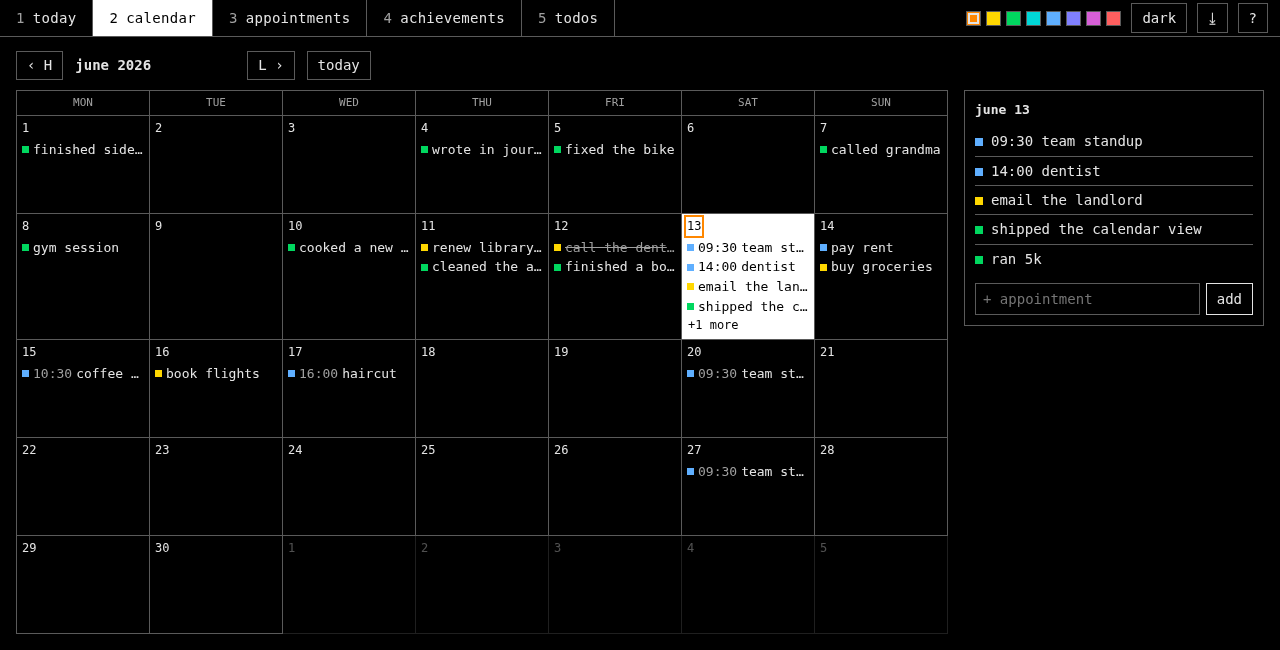
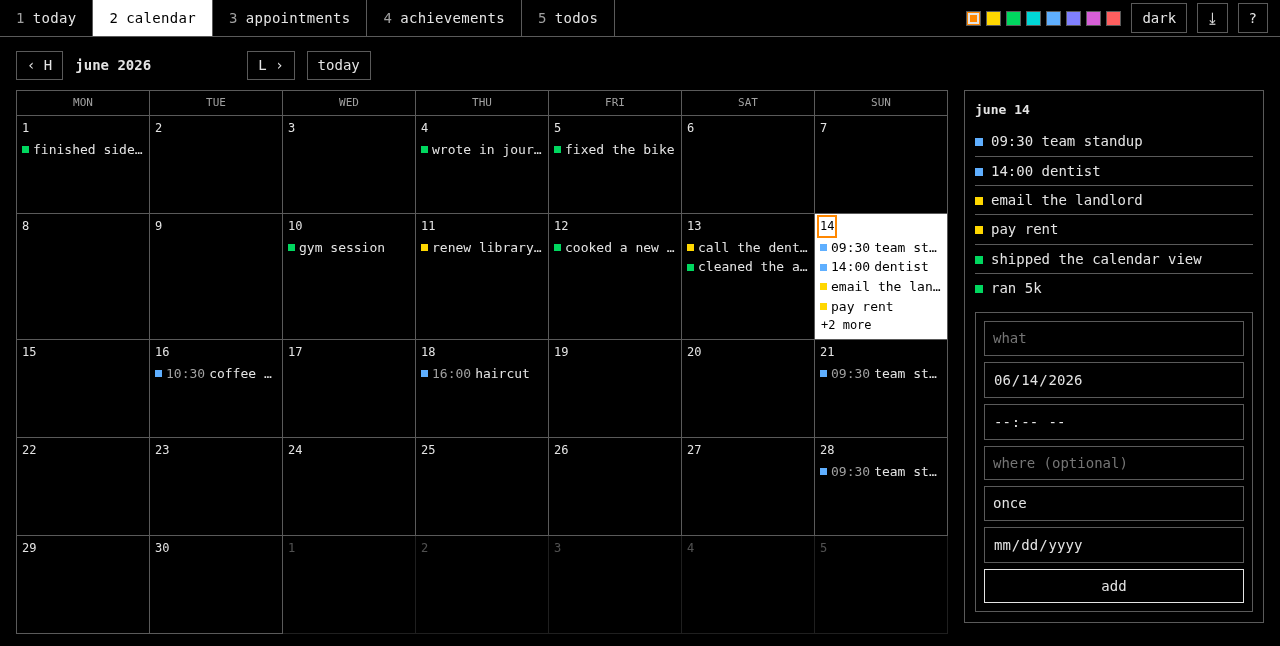
feat: full add-form in calendar day panel + upcoming/past appointments + hash routing
calendar day panel now offers the same full appointment form (time/place/repeat/
end-date) as the appointments page, pre-filled to the clicked day — shared via
appointmentAddForm(), no drift. appointments list groups upcoming (soonest first,
recurring resolved to next occurrence) and past (most recent first), ordering shared
with keyboard nav. views are now hash-routed (#calendar) — deep-linkable, pwa reopens
where you left off. docs: refreshed calendar screenshot, reframed phone-sync as
optional native-calendar interop (the pwa + nudges are the primary phone path).

diff --git a/web/app.js b/web/app.js
@@ -276,13 +276,17 @@ function setView(v) {
   closeSearch(false);
   document.querySelectorAll(".tab").forEach(t => t.classList.toggle("active", t.dataset.view === v));
   document.querySelectorAll(".view").forEach(s => s.classList.toggle("active", s.id === v));
+  // reflect the view in the url so it's deep-linkable / bookmarkable and a
+  // refresh (or the installed pwa) reopens where you were. guarded: the hashchange
+  // listener no-ops when the hash already matches the current view.
+  if (location.hash.slice(1) !== v) location.hash = v;
   if (v === "today") { refreshPlannerData().then(render); } else { render(); }
 }
 
 function currentList() {
   if (view === "achievements") return applySearch(state.achievements);
   if (view === "todos") return applySearch(visibleTodos());
-  if (view === "appointments") return applySearch(state.appointments);
+  if (view === "appointments") { const o = orderedAppointments(applySearch(state.appointments)); return [...o.up, ...o.past]; }
   return [];
 }
 
@@ -816,32 +820,83 @@ function renderHeatmap() {
 
 // ---- appointments / achievements / todos -----------------------------------
 
+// the full appointment add form — identical controls everywhere it's offered
+// (the appointments page AND the calendar day panel), pre-filled to a day. one
+// definition so the calendar's add can never drift from the appointments page's.
+function appointmentAddForm(defaultWhen) {
+  return addRow([
+    { name: "title", ph: "what", cls: "title" },
+    { name: "when", type: "date", value: defaultWhen },
+    { name: "time", type: "time" },
+    { name: "location", ph: "where (optional)" },
+    { name: "repeat", type: "select", options: REPEAT_OPTIONS },
+    { name: "until", type: "date" },
+  ], d => add("appointments", {
+    title: d.title, when: d.time ? `${d.when} ${d.time}` : d.when,
+    location: d.location, recur: parseRepeat(d.repeat, d.until),
+  }));
+}
+
+// split appointments into upcoming (next occurrence today-or-later, soonest
+// first) and past (one-time, already gone, most recent first). recurring series
+// resolve to their next hit. ONE ordering, shared by the view + keyboard nav so
+// j/k always lands on the row you see.
+function orderedAppointments(list) {
+  const today = todayIso();
+  const keyOf = a => {
+    const rec = a.recur && a.recur.freq;
+    return (rec ? (nextOccurrence(a, today) || a.when) : a.when) || "";
+  };
+  const up = [], past = [];
+  list.forEach(a => (keyOf(a) >= today ? up : past).push(a));
+  up.sort((x, y) => keyOf(x) < keyOf(y) ? -1 : 1);
+  past.sort((x, y) => keyOf(x) > keyOf(y) ? -1 : 1);
+  return { up, past };
+}
+
+function apptRow(a) {
+  const rec = recurLabel(a.recur, (a.when || "").slice(0, 10));
+  const shown = rec ? (nextOccurrence(a, todayIso()) || a.when) : a.when;
+  const sub = [a.location, rec].filter(Boolean).join("  ·  ");
+  return listRow(a, "appointments", [
+    el("span", "when", fmtWhen(shown)),
+    buildBody(a.title, sub),
+  ]);
+}
+
 function renderAppointments() {
   const root = document.getElementById("appointments");
   clear(root);
   const h = el("h2", "section-h", "appointments");
   h.appendChild(el("span", "count", `${state.appointments.length}`));
   root.appendChild(h);
-  root.appendChild(addRow([
-    { name: "title", ph: "what", cls: "title" },
-    { name: "when", type: "date", value: selDay },
-    { name: "time", type: "time" },
-    { name: "location", ph: "where (optional)" },
-    { name: "repeat", type: "select", options: REPEAT_OPTIONS },
-    { name: "until", type: "date" },
-  ], d => add("appointments", { title: d.title, when: d.time ? `${d.when} ${d.time}` : d.when, location: d.location, recur: parseRepeat(d.repeat, d.until) })));
+  root.appendChild(appointmentAddForm(selDay));
+
+  const { up, past } = orderedAppointments(applySearch(state.appointments));
   const body = el("div");
-  // recurring series show their next occurrence in the when column; the label
-  // (e.g. "every other thu") makes the repetition explicit.
-  mountList(body, applySearch(state.appointments), (a) => {
-    const rec = recurLabel(a.recur, (a.when || "").slice(0, 10));
-    const shown = rec ? (nextOccurrence(a, todayIso()) || a.when) : a.when;
-    const sub = [a.location, rec].filter(Boolean).join("  ·  ");
-    return listRow(a, "appointments", [
-      el("span", "when", fmtWhen(shown)),
-      buildBody(a.title, sub),
-    ]);
-  }, "no appointments. press n to add one.");
+  if (!up.length && !past.length) {
+    body.appendChild(el("div", "empty", "no appointments. press n to add one."));
+    root.appendChild(body);
+    return;
+  }
+  // one flat list with group headers; the running index mirrors currentList()
+  // ([...up, ...past]) so the selection model and keyboard nav stay in sync.
+  const list = el("div", "list");
+  let i = 0;
+  const group = (items, label) => {
+    if (!items.length) return;
+    list.appendChild(el("div", "grp-h", label));
+    items.forEach(a => {
+      const idx = i++;
+      const row = apptRow(a);
+      if (idx === sel && a.id !== editing) row.classList.add("sel");
+      if (a.id !== editing) row.onclick = () => { sel = idx; render(); };
+      list.appendChild(row);
+    });
+  };
+  group(up, "upcoming");
+  group(past, "past");
+  body.appendChild(list);
   root.appendChild(body);
 }
 
@@ -977,16 +1032,9 @@ function renderDayPanel() {
     li.appendChild(el("span", null, text));
     panel.appendChild(li);
   });
-  const q = el("form", "quick");
-  const inp = el("input"); inp.placeholder = "+ appointment";
-  const b = el("button", null, "add"); b.type = "submit";
-  q.append(inp, b);
-  q.onsubmit = (e) => {
-    e.preventDefault();
-    const v = inp.value.trim();
-    if (v) { add("appointments", { title: v, when: selDay }); inp.value = ""; }
-  };
-  panel.appendChild(q);
+  // full controls right where you're looking — time, place, repeat, end-date —
+  // pre-filled to the clicked day. same form as the appointments page.
+  panel.appendChild(appointmentAddForm(selDay));
   return panel;
 }
 
@@ -1202,7 +1250,13 @@ async function poll() {
 }
 
 wireBar();
-setView("today");
+const boot = location.hash.slice(1);
+setView(VIEWS.includes(boot) ? boot : "today");
 refresh();
 setInterval(poll, 4000);
 document.addEventListener("visibilitychange", () => { if (document.visibilityState === "visible") poll(); });
+// back/forward or a hand-typed #view switches the section
+window.addEventListener("hashchange", () => {
+  const v = location.hash.slice(1);
+  if (VIEWS.includes(v) && v !== view) setView(v);
+});

diff --git a/web/style.css b/web/style.css
@@ -186,12 +186,16 @@ h2.section-h { font-size: 13px; color: var(--muted); font-weight: 600;
 #day-panel h3 { font-size: 13px; margin-bottom: 8px; }
 #day-panel .li { padding: 4px 0; border-bottom: 1px solid var(--line); display: flex; gap: 8px; align-items: baseline; }
 #day-panel .li:last-of-type { border-bottom: none; }
-#day-panel .quick { margin-top: 10px; display: flex; gap: 6px; }
-#day-panel .quick input { font: inherit; background: var(--field); color: var(--fg);
-  border: 1px solid var(--line); padding: 5px 7px; flex: 1; }
-#day-panel .quick button { font: inherit; background: var(--bg); color: var(--fg);
-  border: 1px solid var(--fg); padding: 5px 10px; cursor: pointer; }
-#day-panel .quick button:hover { background: var(--inv-bg); color: var(--inv-fg); }
+/* the full add form stacks vertically in the narrow day-panel column */
+#day-panel .add { margin-top: 10px; margin-bottom: 0; flex-direction: column;
+  align-items: stretch; padding: 8px; gap: 6px; }
+#day-panel .add > * { flex: 0 0 auto; width: 100%; min-width: 0; }
+
+/* upcoming / past group headers on the appointments list */
+.grp-h { font-size: 11px; text-transform: uppercase; letter-spacing: .08em;
+  color: var(--muted); margin: 14px 0 5px; padding-bottom: 3px;
+  border-bottom: 1px solid var(--line); }
+.grp-h:first-child { margin-top: 2px; }
 
 /* ---- help overlay ---- */
 .overlay { position: fixed; inset: 0; background: rgba(0,0,0,.7);

diff --git a/README.md b/README.md
@@ -11,7 +11,7 @@ like claude. no accounts, no cloud, no tracking. your data never leaves your mac
 
 - **stdlib-only web app** — python 3.8+, no dependencies. clone and run.
 - **square, terminal-styled ui** — light + dark, eight accent colors, keyboard-first (vim keys).
-- **read-only `.ics` feed** — subscribe from your phone, see appointments + due todos there.
+- **works on your phone** — installable PWA over your private network; optional `.ics` / caldav export if you'd rather see appointments in a native calendar app.
 - **mcp server** — let an assistant log your wins, add todos, flag what's slipping, and review your week (one optional dep).
 - **it reaches out** — optional push that nudges you: a daily standup + weekly review, with overdue
   alerts that escalate the longer you ignore them. as phone *and* desktop notifications, tap-to-open.
@@ -37,12 +37,13 @@ five sections (number keys switch them):
    it's been since your last win) and a **this week** recap (completion rate, wins, busiest day);
    then appointments today, todos due/overdue, today's wins with a one-field win logger, the next 7
    days, and a streak ribbon. open this first each day.
-2. **calendar** — month grid; click a day to see/add what's on it. colored marks: green = a win,
-   blue = an appointment, yellow = a due todo.
-3. **appointments** — things at a time. add with a date (+ optional time) and place. set
-   **repeat** (daily / weekly / every-other-week / monthly, with an optional end date) to make it
-   recur — the list shows the next occurrence, the calendar marks every one, and your phone gets it
-   as a standard repeating event.
+2. **calendar** — month grid; click a day to see what's on it and add an appointment with the **full
+   controls right there** (time, place, repeat, end-date) — no jumping to another page. colored
+   marks: green = a win, blue = an appointment, yellow = a due todo.
+3. **appointments** — your agenda. add with a date (+ optional time) and place; set **repeat** (daily
+   / weekly / every-other-week / monthly, with an optional end date) to make it recur. the list is
+   grouped **upcoming** (soonest first, recurring series resolved to their next occurrence) and
+   **past** — the calendar marks every occurrence and your phone gets it as a standard repeating event.
 4. **achievements** — your wins log, with a contribution heatmap + an honest, arcade-style streak.
    each logged day extends it and every 7th banks a **shield** (max 3); a missed day spends a shield
    to keep the run alive, but miss with no shields left and the streak resets to 0 — the shields are
@@ -128,8 +129,10 @@ app — an appointment you add on your phone goes straight into the one store an
 on your desktop instantly. it's an installable PWA — "add to home screen" and it opens full-screen
 with its own icon, like a native app. keep it private: a LAN or tailnet, never the public internet.
 
-prefer your phone's **native** calendar app instead? two options below — a read-only
-feed, or full two-way sync.
+**most people stop here** — the installed PWA is your calendar on the phone, and the nudges (below)
+push what matters. the two options below only matter if you want lifeplanner's appointments to show up
+**inside another calendar app you already live in** (a work/shared/family calendar you don't control).
+if the app itself is your calendar, skip them.
 
 ## phone calendar (one-way, read-only)
 